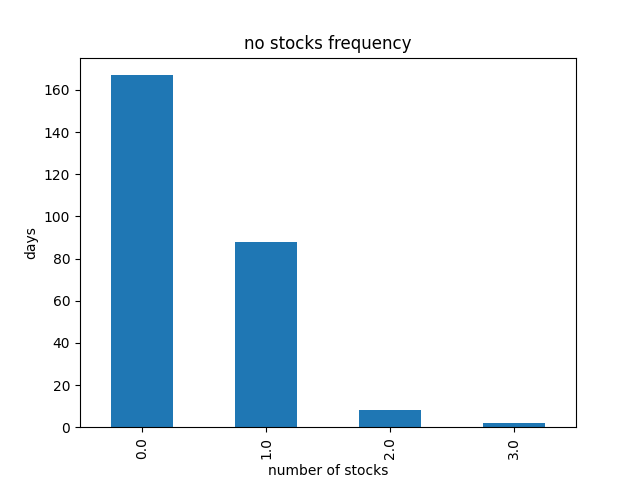
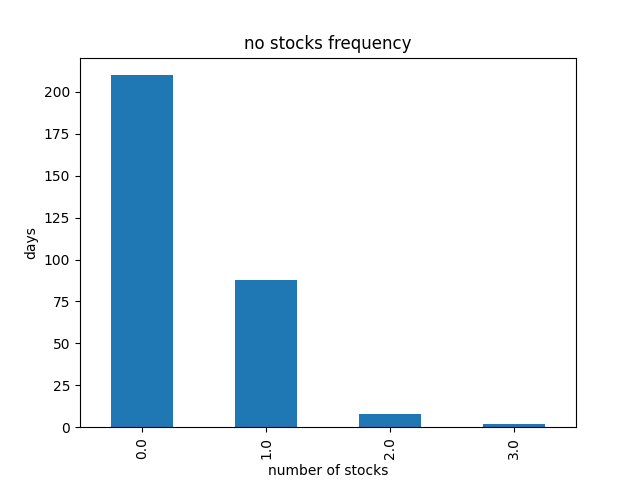
add optimization expectation

diff --git a/metrics.py b/metrics.py
@@ -3,6 +3,7 @@ import argparse
 import pandas as pd
 
 from data.service import *
+from util.utils import get_date
 from util.visualization import *
 from util.metric_func import *
 
@@ -188,9 +189,19 @@ if __name__ == "__main__":
         assets = assets.sort_values(by=["start-date", "curr-date"])
 
         # get VNINDEX data
-        from_date = assets["start-date"].iloc[0]
-        to_date = assets["curr-date"].iloc[-1]
-        index_data = data_service.get_index_data(from_date, to_date)
+        start, from_date, to_date, end = get_date(optimization_params["os_from_date"], 
+                                              optimization_params["os_to_date"], 
+                                              forward_period=90,
+                                              look_back=120
+                                              ) \
+                                        if args.mode == "validation" else \
+                                        get_date(backtesting_config["from_date"], 
+                                              backtesting_config["to_date"], 
+                                              forward_period=90,
+                                              look_back=120
+                                        )
+    
+        index_data = data_service.get_index_data(from_date, end)
         index_data = index_data.astype({"open": float, "close": float})
 
         metrics = Metrics(asset=assets, index_data=index_data)

diff --git a/README.md b/README.md
@@ -1,5 +1,5 @@
 # Introduction
-This project recommends 3 stocks daily in the Vietnam market by utilizing fundamental signals and technical signals calculated from financial statement and daily price data respectively.
+This project recommends 3 stocks daily in the Vietnam market by utilizing fundamental signals and technical signals calculated from financial statement and daily price data respectively. The stocks are hold in 60 trading days period.
 ## Method
 - We filter out the firms by the recommended financial ratios with its liquidity
 - The financial ratios include:
@@ -125,3 +125,16 @@ python validation.py
 ```
 python metrics.py validation
 ```
+- With random seed is 2024 the output of the validation in optimized parameters are:
+
+<center>
+  
+|           | ESR    | MMMD     | PPP     | MAR     | MIR      | MER     | EMR     |
+|-----------|--------|----------|---------|---------|----------|---------|---------|
+| [7, 9]    | -1.015 | -7.201%  | 29.411% | 11.725% | -14.392% | -1.870% | -1.182% |
+| [7, 10]   | -0.455 | -6.531%  | 40.384% | 11.725% | -14.392% | -0.425% | -0.571% |
+| [7, 9.5]  | -0.760 | -6.713%  | 33.695% | 11.725% | -14.392% | -1.256% | -0.893% |
+| [6.5, 9]  | -1.241 | -6.920%  | 27.731% | 11.725% | -14.392% | -2.193% | -0.973% |
+| [6.5, 9.5]| -1.043 | -6.700%  | 30.952% | 11.725% | -14.392% | -1.726% | -0.774% |
+| Index     | -0.578 | -33.511% | 18.548% | 12.376% | -31.291% | -1.580% | -0.385% |
+<center>
